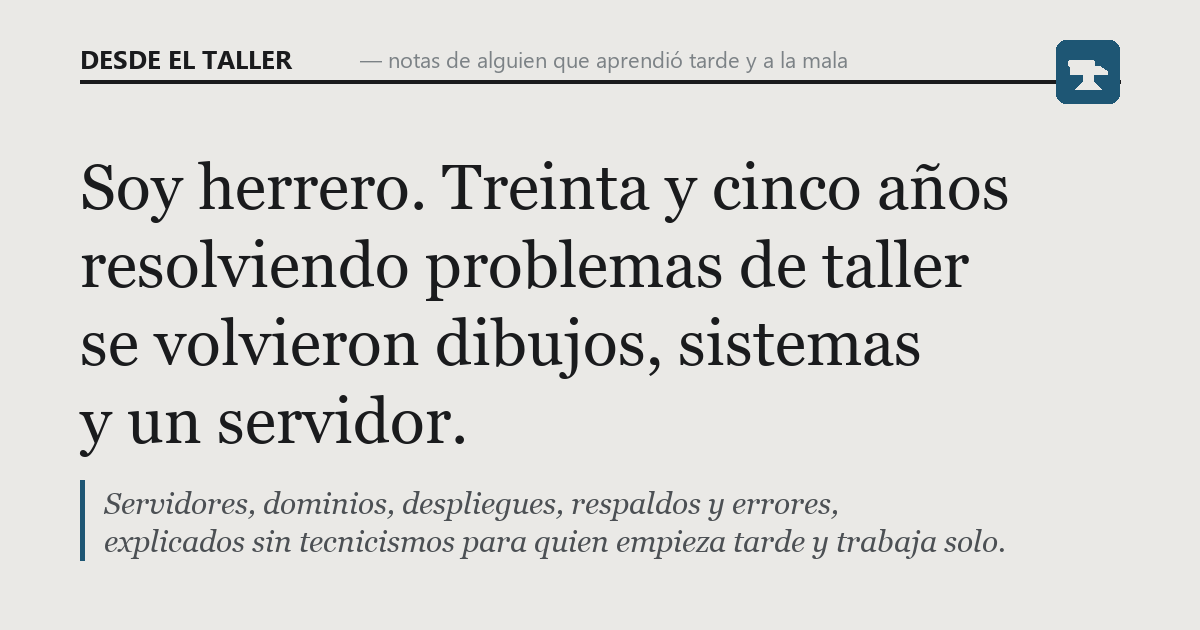
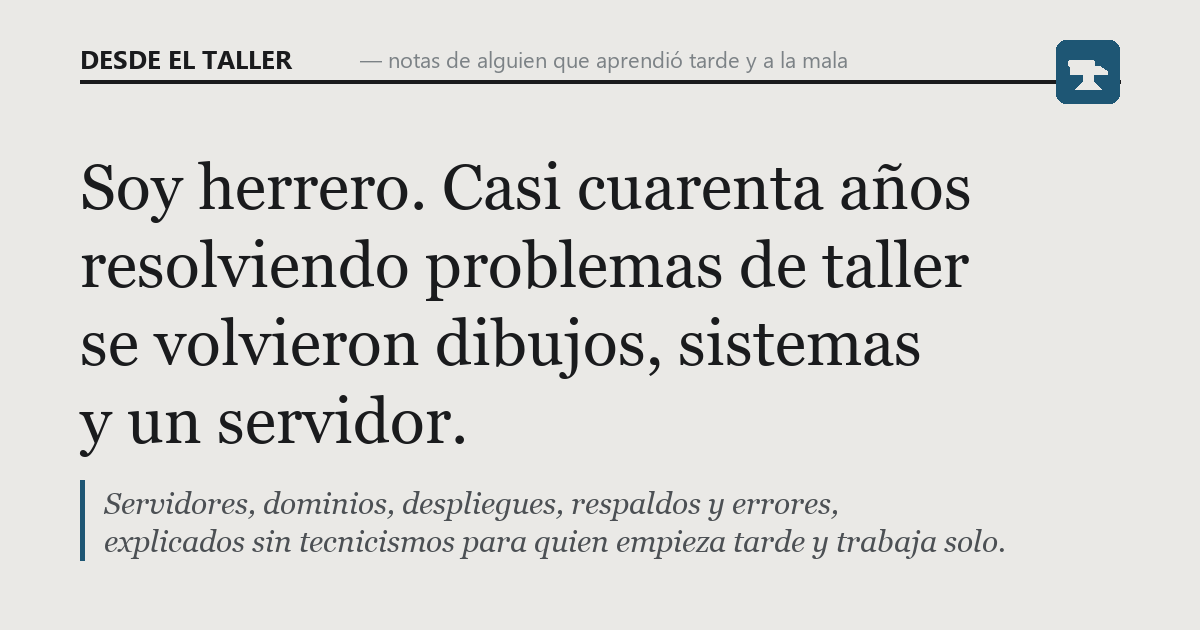
Claude: casi cuarenta años de oficio, no treinta y cinco

Changed region(s): [[0.37, 0.2413, 0.8633, 0.3619]]

diff --git a/index.html b/index.html
@@ -4,13 +4,13 @@
 <meta charset="utf-8">
 <meta name="viewport" content="width=device-width,initial-scale=1">
 <title>Desde el taller</title>
-<meta name="description" content="Un herrero que convirtió treinta y cinco años de taller en dibujos, sistemas y un servidor propio. Servidores, dominios, despliegues, respaldos, seguridad y errores explicados sin tecnicismos para quien empieza tarde y trabaja solo.">
+<meta name="description" content="Un herrero que convirtió casi cuarenta años de taller en dibujos, sistemas y un servidor propio. Servidores, dominios, despliegues, respaldos, seguridad y errores explicados sin tecnicismos para quien empieza tarde y trabaja solo.">
 <meta name="author" content="Desde el taller">
 <meta property="og:type" content="website">
 <meta property="og:site_name" content="Desde el taller">
 <meta property="og:locale" content="es_MX">
 <meta property="og:title" content="Desde el taller">
-<meta property="og:description" content="Un herrero que convirtió treinta y cinco años de taller en dibujos, sistemas y un servidor propio. Servidores, dominios, despliegues, respaldos, seguridad y errores explicados sin tecnicismos para quien empieza tarde y trabaja solo.">
+<meta property="og:description" content="Un herrero que convirtió casi cuarenta años de taller en dibujos, sistemas y un servidor propio. Servidores, dominios, despliegues, respaldos, seguridad y errores explicados sin tecnicismos para quien empieza tarde y trabaja solo.">
 <meta name="twitter:card" content="summary_large_image">
 <link rel="canonical" href="https://desdeeltaller.github.io/">
 <meta property="og:url" content="https://desdeeltaller.github.io/">
@@ -31,7 +31,7 @@
   </div>
 
   <header class="presentacion">
-    <h1>Soy herrero.<br>Treinta y cinco años resolviendo problemas de taller se volvieron dibujos, sistemas y un servidor.</h1>
+    <h1>Soy herrero.<br>Casi cuarenta años resolviendo problemas de taller se volvieron dibujos, sistemas y un servidor.</h1>
     <p class="quien">
       Interpreto lo que quiere un cliente o un arquitecto, lo dibujo antes de
       cortar, lo fabrico y lo cobro. Sin título universitario y sin formación

diff --git a/sobre.html b/sobre.html
@@ -39,7 +39,7 @@
   <h2>Qué es</h2>
 
   <p>
-    Un blog personal. Lo escribe un herrero con treinta y cinco años de taller
+    Un blog personal. Lo escribe un herrero con casi cuarenta años de taller
     que, por necesidad y a tropezones, terminó dibujando en la computadora lo
     que fabrica, haciendo los sistemas que administran su negocio, y
     sosteniéndolos en un servidor propio. Aquí cuenta cómo pasó eso, y sobre
